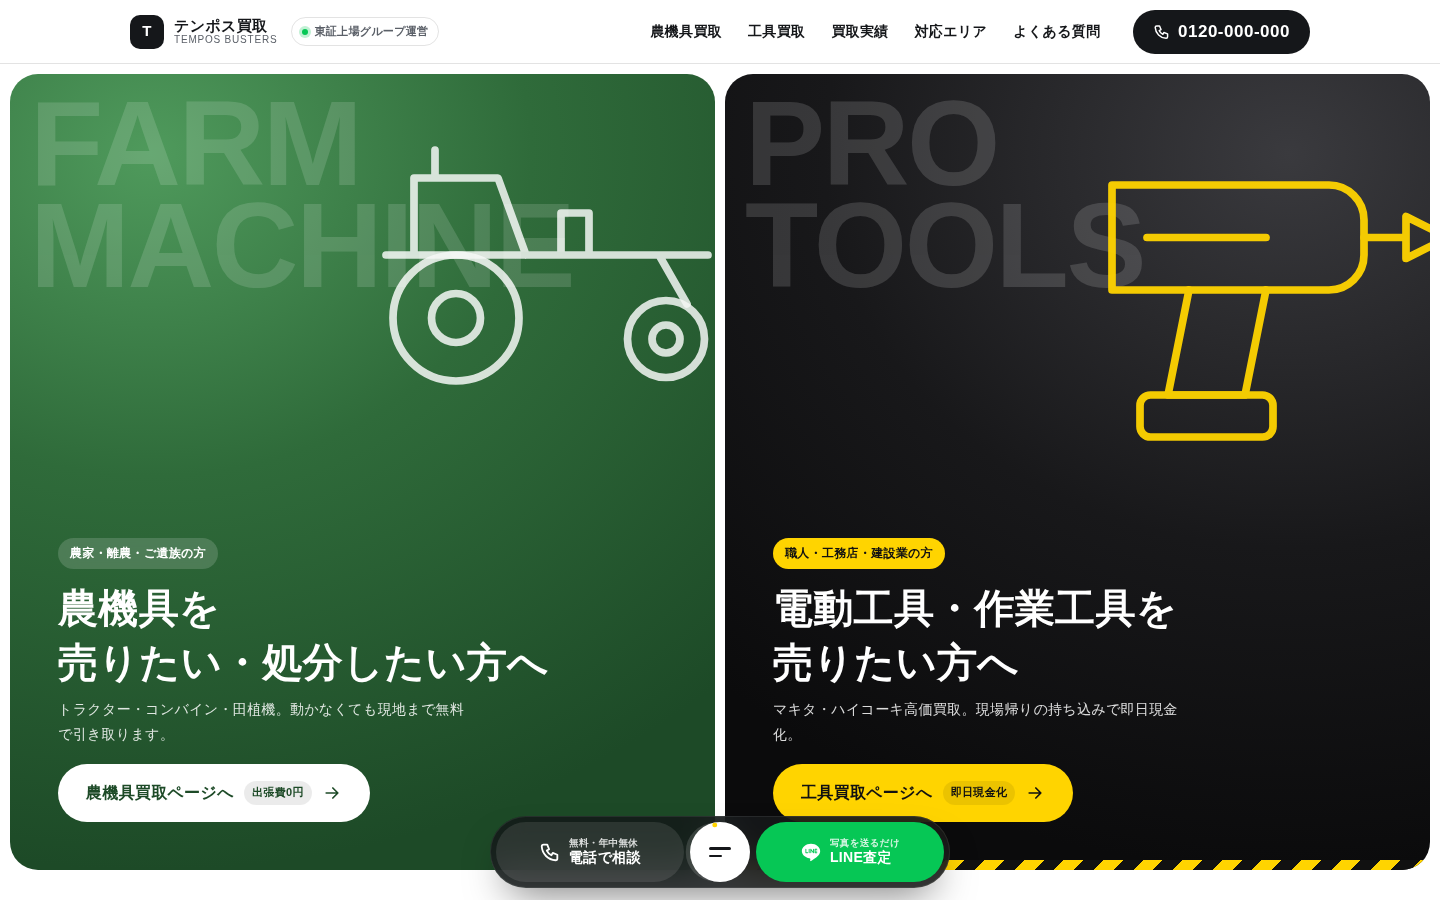
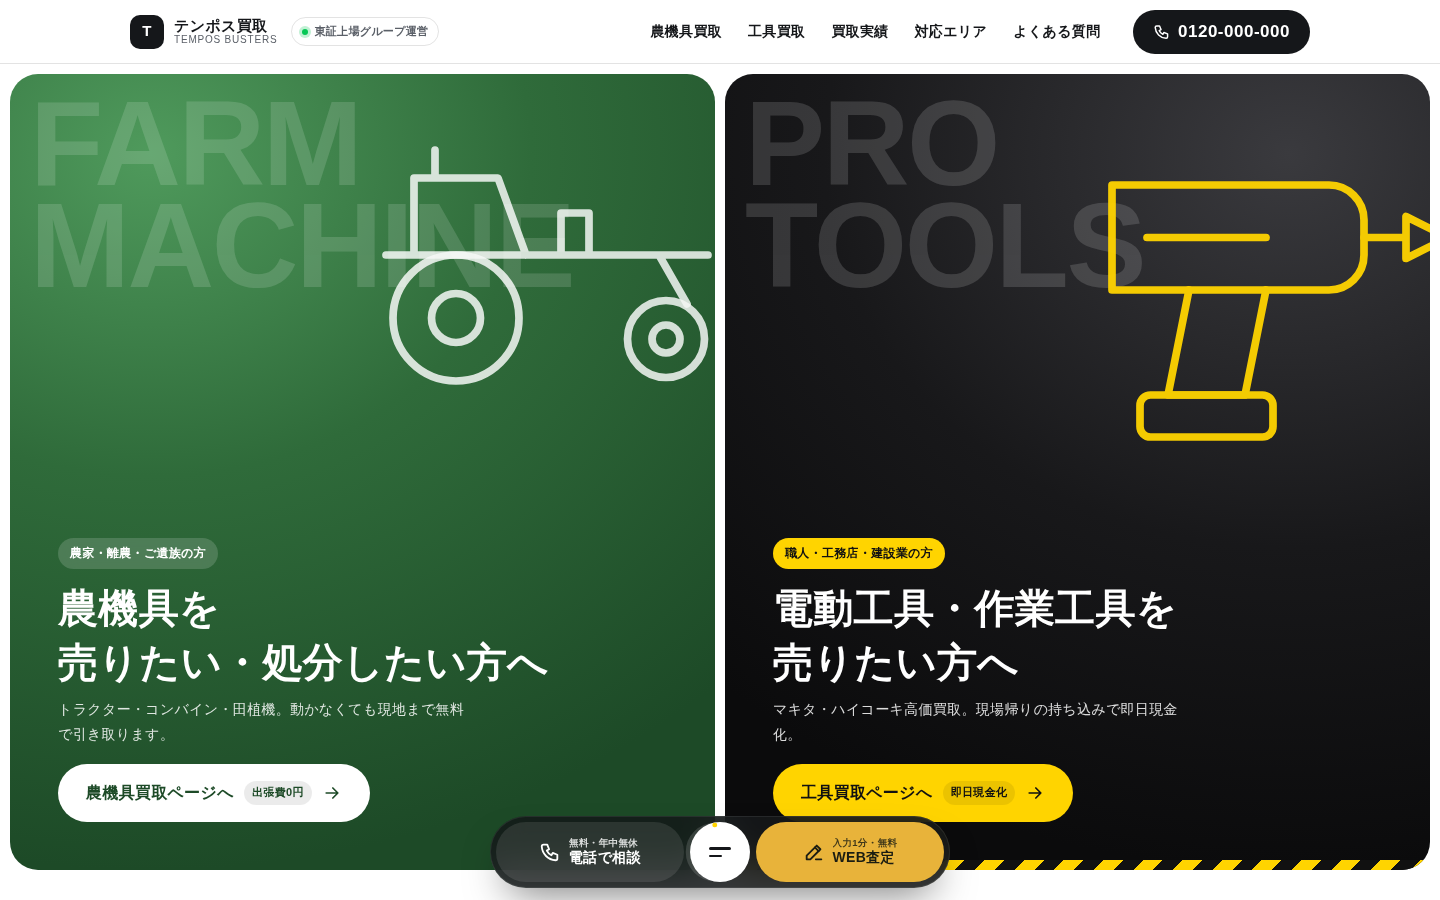
Switch primary CTA from LINE to the web estimate form
Replace LINE buttons in heroes and the floating dock with form CTAs,
swap the LINE card for a reassurance/phone card, add an optional photo
upload to the forms, and fix the required badge layout.

Claude-Session: https://claude.ai/code/session_01486cWnVe1SPJXuXY7nANnW

Changed region(s): [[0.5, 0.9022, 0.6562, 0.9956]]

diff --git a/mock/assets/css/style.css b/mock/assets/css/style.css
@@ -23,6 +23,8 @@
   --tool: #ffd400;
   --tool-red: #e60012;
   --line-green: #06c755;
+  --cta: #e8b33a;
+  --cta-ink: #1b1d12;
 
   --radius-s: 10px;
   --radius: 18px;
@@ -50,6 +52,8 @@
   --primary-ink: #ffffff;
   --accent: #8a5a2b;
   --sheet-bg: #1d4a27;
+  --cta: #e8b33a;
+  --cta-ink: #1d2a1d;
   --dock-bg: rgba(29, 74, 39, .9);
 }
 
@@ -65,6 +69,8 @@
   --accent: #e60012;
   --font-display: "Anton", var(--font-en);
   --sheet-bg: #ffd400;
+  --cta: #e60012;
+  --cta-ink: #ffffff;
   --sheet-ink: #0e0e0f;
   --dock-bg: rgba(14, 14, 15, .88);
 }
@@ -209,7 +215,7 @@ ul, ol { margin: 0; padding: 0; list-style: none; }
 .btn:hover::before { transform: translateX(0); }
 .btn:active { transform: scale(.97); }
 .btn--primary { background: var(--primary); color: var(--primary-ink); }
-.btn--line { background: var(--line-green); color: #fff; }
+.btn--cta { background: var(--cta); color: var(--cta-ink); }
 .btn--ghost { border: 2px solid currentColor; }
 .btn .arrow { transition: transform .35s var(--ease); }
 .btn:hover .arrow { transform: translateX(4px); }
@@ -291,8 +297,9 @@ ul, ol { margin: 0; padding: 0; list-style: none; }
 .form-card .lead { font-size: 13px; color: var(--ink-soft); margin-top: 4px; }
 .form-grid { display: grid; gap: 14px; margin-top: 22px; }
 @media (min-width: 640px) { .form-grid { grid-template-columns: 1fr 1fr; } .form-grid .full { grid-column: 1 / -1; } }
-.field { display: grid; gap: 6px; font-size: 13px; font-weight: 700; }
-.field .req { margin-left: 6px; font-size: 10px; padding: 1px 6px; border-radius: 4px; background: var(--accent); color: #fff; }
+.field { display: flex; flex-wrap: wrap; align-items: center; gap: 6px; font-size: 13px; font-weight: 700; }
+.field > input, .field > select, .field > .hint, .field > .seg { flex-basis: 100%; }
+.field .req { margin-left: 2px; font-size: 10px; padding: 1px 6px; border-radius: 4px; background: var(--accent); color: #fff; }
 .theme-tool .field .req { background: var(--tool-red); }
 .field input, .field select {
   width: 100%; height: 54px; padding: 0 16px; border-radius: 12px; font: inherit; font-size: 16px; font-weight: 500;
@@ -310,16 +317,27 @@ ul, ol { margin: 0; padding: 0; list-style: none; }
 .form-done { display: none; text-align: center; padding: 40px 10px; }
 .form-card.is-done form { display: none; }
 .form-card.is-done .form-done { display: block; }
-.line-card {
-  border-radius: var(--radius-l); padding: clamp(24px, 4vw, 40px); background: var(--line-green); color: #fff;
-  display: flex; flex-direction: column; gap: 14px; position: relative; overflow: hidden;
+.side-card {
+  border-radius: var(--radius-l); padding: clamp(24px, 4vw, 40px); background: var(--surface); color: var(--ink);
+  display: flex; flex-direction: column; gap: 16px; position: relative; overflow: hidden;
 }
-.line-card h3 { font-size: 24px; font-weight: 900; line-height: 1.4; }
-.line-card ol { display: grid; gap: 8px; counter-reset: s; font-weight: 700; font-size: 14px; }
-.line-card li { counter-increment: s; display: flex; gap: 10px; align-items: center; }
-.line-card li::before { content: counter(s); width: 26px; height: 26px; border-radius: 50%; display: grid; place-items: center; background: #fff; color: var(--line-green); font-family: var(--font-en); font-weight: 800; font-size: 13px; flex: none; }
-.line-card .btn { margin-top: auto; background: #fff; color: #06a648; }
-.line-card__bubble { position: absolute; right: -30px; top: -30px; width: 160px; height: 160px; border-radius: 50%; background: rgba(255, 255, 255, .12); }
+.side-card h3 { font-size: 22px; font-weight: 900; line-height: 1.45; position: relative; }
+.side-card ol { display: grid; gap: 10px; counter-reset: s; font-weight: 700; font-size: 14px; position: relative; }
+.side-card li { counter-increment: s; display: flex; gap: 10px; align-items: center; }
+.side-card li::before { content: counter(s); width: 26px; height: 26px; border-radius: 50%; display: grid; place-items: center; background: var(--primary); color: var(--primary-ink); font-family: var(--font-en); font-weight: 800; font-size: 13px; flex: none; }
+.side-card__tel { margin-top: auto; padding-top: 18px; border-top: 1px solid var(--line); font-size: 12px; font-weight: 700; color: var(--ink-soft); position: relative; }
+.side-card__tel a { display: flex; align-items: center; gap: 8px; margin-top: 4px; font-family: var(--font-en); font-size: 28px; font-weight: 800; color: var(--ink); letter-spacing: .02em; }
+.side-card__tel small { display: block; font-size: 11px; }
+.side-card__bubble { position: absolute; right: -40px; top: -40px; width: 180px; height: 180px; border-radius: 50%; background: color-mix(in srgb, var(--primary) 10%, transparent); }
+.cv-section--agri .side-card { background: rgba(255, 255, 255, .08); color: #fff; }
+.cv-section--agri .side-card li::before { background: #e8c46a; color: var(--agri-deep); }
+.cv-section--agri .side-card__tel { color: rgba(255, 255, 255, .7); border-color: rgba(255, 255, 255, .15); }
+.cv-section--agri .side-card__tel a { color: #fff; }
+.cv-section--tool .side-card { background: #0e0e0f; color: #f4f4f2; }
+.cv-section--tool .side-card li::before { background: var(--tool); color: #0e0e0f; }
+.cv-section--tool .side-card__tel a { color: var(--tool); }
+.field input[type="file"] { height: auto; padding: 12px; font-size: 13px; border-style: dashed; }
+.field .hint { font-size: 11px; font-weight: 500; color: var(--ink-soft); }
 
 /* フッター */
 .site-footer { background: #111312; color: #d9dbd6; padding: 64px 0 40px; font-size: 13px; }
@@ -388,8 +406,7 @@ ul, ol { margin: 0; padding: 0; list-style: none; }
 .dock__btn .icon { width: 22px; height: 22px; }
 .dock__btn--tel { background: rgba(255, 255, 255, .1); }
 .dock__btn--tel:hover { background: rgba(255, 255, 255, .18); }
-.dock__btn--line { background: var(--line-green); }
-.dock__btn--line .icon { fill: #fff; stroke: none; }
+.dock__btn--form { background: var(--cta); color: var(--cta-ink); }
 
 .dock__orb {
   position: relative; width: 60px; height: 60px; border-radius: 50%;
@@ -648,7 +665,7 @@ ul, ol { margin: 0; padding: 0; list-style: none; }
 .tool-hero__ctas { display: grid; gap: 10px; margin-top: 26px; }
 @media (min-width: 560px) { .tool-hero__ctas { grid-template-columns: 1fr 1fr; max-width: 560px; } }
 .tool-hero .btn--primary { border-radius: 10px; }
-.tool-hero .btn--line { border-radius: 10px; }
+.tool-hero .btn--cta { border-radius: 10px; }
 .tool-hero__visual { position: relative; }
 .tool-hero__visual .ph { aspect-ratio: 1; border-radius: 4px; --ph-bg: linear-gradient(135deg, #2b2b2f, #121214); clip-path: polygon(0 0, 100% 0, 100% 86%, 86% 100%, 0 100%); }
 .tool-hero__visual .ph svg { stroke: var(--tool); }

diff --git a/mock/agricultural-equipment/index.html b/mock/agricultural-equipment/index.html
@@ -71,10 +71,10 @@
           <span class="trust-badge"><span>東証上場<br>グループ<br>運営</span></span>
         </div>
         <div class="agri-hero__ctas">
-          <a class="btn btn--line" href="#form"><svg class="icon" style="fill:#fff;stroke:none"><use href="#i-line"/></svg>LINEで写真査定</a>
+          <a class="btn btn--cta" href="#form"><svg class="icon"><use href="#i-edit"/></svg>無料査定フォームへ</a>
           <a class="btn btn--primary" href="tel:0120000000"><svg class="icon"><use href="#i-phone"/></svg>電話で相談</a>
         </div>
-        <p class="micro"><span>写真を送るだけ・1分で完了</span><span>強引な営業は一切ありません</span></p>
+        <p class="micro"><span>入力は1分で完了</span><span>強引な営業は一切ありません</span></p>
       </div>
       <div class="agri-hero__visual">
         <div class="ph reveal-clip" data-label="PHOTO：田んぼとトラクター（AVIF）">
@@ -167,7 +167,7 @@
         <p class="answer">お問い合わせから現金お支払いまで最短3ステップ。大型搬出や名義変更もテンポスが代行するので、立ち会うだけで完了します。</p>
       </div>
       <div class="stack">
-        <article class="stack__card" style="--i:0"><p class="stack__no"><small>STEP</small>01</p><div><h3>お問い合わせ</h3><p>電話またはLINEで写真を送るだけ。型式がわからなくても大丈夫です。</p><div class="tags"><span>LINE写真査定</span><span>電話相談</span><span>年中無休</span></div></div><div class="ph" data-label="PHOTO：スマホで撮影"><svg viewBox="0 0 24 24" fill="none" stroke="#fff" stroke-width="1.5"><use href="#i-phone"/></svg></div></article>
+        <article class="stack__card" style="--i:0"><p class="stack__no"><small>STEP</small>01</p><div><h3>お問い合わせ</h3><p>査定フォームに入力するだけ（1分）。型式がわからなくても大丈夫です。</p><div class="tags"><span>WEB査定フォーム</span><span>電話相談</span><span>年中無休</span></div></div><div class="ph" data-label="PHOTO：フォーム入力"><svg viewBox="0 0 24 24" fill="none" stroke="#fff" stroke-width="1.5"><use href="#i-edit"/></svg></div></article>
         <article class="stack__card" style="--i:1"><p class="stack__no"><small>STEP</small>02</p><div><h3>現地確認・査定</h3><p>専門スタッフがご自宅・納屋まで訪問。その場で金額をご提示します。</p><div class="tags"><span>出張費0円</span><span>査定料0円</span><span>キャンセル無料</span></div></div><div class="ph" data-label="PHOTO：査定スタッフ"><svg viewBox="0 0 24 24" fill="none" stroke="#fff" stroke-width="1.5"><use href="#i-doc"/></svg></div></article>
         <article class="stack__card" style="--i:2"><p class="stack__no"><small>STEP</small>03</p><div><h3>その場で現金お支払い＆引き取り</h3><p>大型の搬出・名義変更手続きもテンポスがすべて代行します。</p><div class="tags"><span>即日現金</span><span>搬出代行</span><span>名義変更代行</span></div></div><div class="ph" data-label="PHOTO：積み込み"><svg viewBox="0 0 24 24" fill="none" stroke="#fff" stroke-width="1.5"><use href="#i-truck"/></svg></div></article>
       </div>
@@ -190,7 +190,7 @@
     </div>
   </section>
 
-  <!-- [8] フォーム＆LINE -->
+  <!-- [8] 査定フォーム -->
   <section class="section cv-section--agri" id="form" data-nav="無料査定">
     <div class="container">
       <div class="sec-head reveal">
@@ -208,6 +208,7 @@
               <label class="field full">都道府県<span class="req">必須</span>
                 <select required><option value="">選択してください</option><option>北海道</option><option>青森県</option><option>岩手県</option><option>宮城県</option><option>秋田県</option><option>山形県</option><option>福島県</option><option>茨城県</option><option>栃木県</option><option>群馬県</option><option>新潟県</option><option>その他</option></select>
               </label>
+              <label class="field full">写真（任意・3枚まで）<input type="file" accept="image/*" multiple><span class="hint">サビや故障箇所がわかる写真があると査定がスムーズです</span></label>
               <fieldset class="field full" style="border:0;padding:0;margin:0"><legend style="margin-bottom:6px">機器の種類</legend>
                 <div class="seg">
                   <label><input type="radio" name="kind" checked><span>トラクター</span></label>
@@ -223,11 +224,11 @@
           </form>
           <div class="form-done" role="status"><h3>送信しました（モック）</h3><p class="lead">担当者より折り返しご連絡いたします。</p></div>
         </div>
-        <div class="line-card reveal" style="--d:.1s">
-          <span class="line-card__bubble"></span>
-          <h3>写真を送るだけ。<br>LINEでかんたん査定</h3>
-          <ol><li>友だち追加</li><li>農機具の写真を2〜3枚送信</li><li>おおよその査定額をお知らせ</li></ol>
-          <a class="btn" href="#"><svg class="icon" style="fill:currentColor;stroke:none"><use href="#i-line"/></svg>LINEで友だち追加</a>
+        <div class="side-card reveal" style="--d:.1s">
+          <span class="side-card__bubble"></span>
+          <h3>安心してご依頼いただける<br>3つの約束</h3>
+          <ol><li>査定料・出張費・キャンセル料0円</li><li>金額にご納得いただけなければ断ってOK</li><li>強引な営業・しつこい電話は一切なし</li></ol>
+          <p class="side-card__tel">お急ぎの方はお電話でも<a href="tel:0120000000"><svg class="icon"><use href="#i-phone"/></svg>0120-000-000</a><small>受付 8:00〜20:00／年中無休</small></p>
         </div>
       </div>
     </div>
@@ -257,7 +258,7 @@
       <svg class="dock__ring" viewBox="0 0 40 40" aria-hidden="true"><circle class="dock__ring-track" cx="20" cy="20" r="18" pathLength="100"/><circle class="dock__ring-bar" cx="20" cy="20" r="18" pathLength="100"/></svg>
       <span class="dock__orb-icon" aria-hidden="true"><i></i><i></i></span>
     </button>
-    <a class="dock__btn dock__btn--line" href="#form"><svg class="icon"><use href="#i-line"/></svg><span><small>写真を送るだけ</small>LINE査定</span></a>
+    <a class="dock__btn dock__btn--form" href="#form"><svg class="icon"><use href="#i-edit"/></svg><span><small>入力1分・無料</small>WEB査定</span></a>
   </div>
 </div>
 

diff --git a/mock/tool/index.html b/mock/tool/index.html
@@ -64,10 +64,10 @@
         <p class="tool-hero__sub reveal" style="--d:.15s">動く道具はもちろん、型落ち・予備工具・ケースなしも歓迎。プロの道具を正当評価します。</p>
         <div class="tool-badges reveal" style="--d:.2s"><span>型番明確査定</span><span>現場帰り・持ち込み歓迎</span><span>即日現金化</span></div>
         <div class="tool-hero__ctas reveal" style="--d:.25s">
-          <a class="btn btn--line" href="#form"><svg class="icon" style="fill:#fff;stroke:none"><use href="#i-line"/></svg>LINEで型番査定</a>
+          <a class="btn btn--cta" href="#form"><svg class="icon"><use href="#i-edit"/></svg>型番で無料査定</a>
           <a class="btn btn--primary" href="tel:0120000000"><svg class="icon"><use href="#i-phone"/></svg>電話で相談</a>
         </div>
-        <p class="micro"><span>型番を送るだけ・1分で完了</span><span>査定料・キャンセル料0円</span></p>
+        <p class="micro"><span>型番を入れるだけ・1分で完了</span><span>査定料・キャンセル料0円</span></p>
       </div>
       <div class="tool-hero__visual">
         <div class="ph reveal-clip" data-label="PHOTO：インパクトドライバ／現場（AVIF）">
@@ -173,13 +173,13 @@
       <div class="faq">
         <details><summary><span class="q">Q</span>ケースがない本体のみでも買取りできますか？<span class="pm" aria-hidden="true"></span></summary><p class="a">できます。箱・ケースなし、本体のみ、バッテリー劣化品も買取対象です。付属品がそろっている場合は査定額がアップします。</p></details>
         <details><summary><span class="q">Q</span>現場の不用工具をまとめて査定できますか？<span class="pm" aria-hidden="true"></span></summary><p class="a">できます。出張買取で現場や倉庫の工具を一括査定します。数十点〜数百点の大口も対応可能です。</p></details>
-        <details><summary><span class="q">Q</span>型番がわからなくても査定できますか？<span class="pm" aria-hidden="true"></span></summary><p class="a">本体の銘板（型番シール）の写真をLINEで送っていただければ、こちらで特定します。</p></details>
+        <details><summary><span class="q">Q</span>型番がわからなくても査定できますか？<span class="pm" aria-hidden="true"></span></summary><p class="a">査定フォームから本体の銘板（型番シール）の写真を添付していただければ、こちらで特定します。</p></details>
         <details><summary><span class="q">Q</span>インボイスや領収書は発行できますか？<span class="pm" aria-hidden="true"></span></summary><p class="a">法人・個人事業主のお客様には買取明細書を発行します。詳しくはお問い合わせください。</p></details>
       </div>
     </div>
   </section>
 
-  <!-- [8] フォーム＆LINE -->
+  <!-- [8] 査定フォーム -->
   <section class="section cv-section--tool" id="form" data-nav="無料査定">
     <div class="container">
       <div class="sec-head reveal">
@@ -198,6 +198,7 @@
                 <select required><option value="">選択してください</option><option>東京都</option><option>神奈川県</option><option>埼玉県</option><option>千葉県</option><option>大阪府</option><option>愛知県</option><option>その他</option></select>
               </label>
               <label class="field">メーカー・型番（任意）<input type="text" placeholder="例）マキタ TD173D"></label>
+              <label class="field full">写真（任意・3枚まで）<input type="file" accept="image/*" multiple><span class="hint">型番がわからない場合は銘板（型番シール）の写真を添付してください</span></label>
               <fieldset class="field full" style="border:0;padding:0;margin:0"><legend style="margin-bottom:6px">工具の種類</legend>
                 <div class="seg">
                   <label><input type="radio" name="kind" checked><span>電動工具</span></label>
@@ -213,11 +214,11 @@
           </form>
           <div class="form-done" role="status"><h3>送信しました（モック）</h3><p class="lead">担当者より折り返しご連絡いたします。</p></div>
         </div>
-        <div class="line-card reveal" style="--d:.1s">
-          <span class="line-card__bubble"></span>
-          <h3>銘板を撮って送るだけ。<br>LINEでかんたん型番査定</h3>
-          <ol><li>友だち追加</li><li>本体と銘板（型番シール）を撮影</li><li>最短30分で査定額をお知らせ</li></ol>
-          <a class="btn" href="#"><svg class="icon" style="fill:currentColor;stroke:none"><use href="#i-line"/></svg>LINEで友だち追加</a>
+        <div class="side-card reveal" style="--d:.1s">
+          <span class="side-card__bubble"></span>
+          <h3>安心してご依頼いただける<br>3つの約束</h3>
+          <ol><li>査定料・出張費・キャンセル料0円</li><li>金額にご納得いただけなければ断ってOK</li><li>強引な営業・しつこい電話は一切なし</li></ol>
+          <p class="side-card__tel">お急ぎの方はお電話でも<a href="tel:0120000000"><svg class="icon"><use href="#i-phone"/></svg>0120-000-000</a><small>受付 7:00〜21:00／現場帰りもOK</small></p>
         </div>
       </div>
     </div>
@@ -247,7 +248,7 @@
       <svg class="dock__ring" viewBox="0 0 40 40" aria-hidden="true"><circle class="dock__ring-track" cx="20" cy="20" r="18" pathLength="100"/><circle class="dock__ring-bar" cx="20" cy="20" r="18" pathLength="100"/></svg>
       <span class="dock__orb-icon" aria-hidden="true"><i></i><i></i></span>
     </button>
-    <a class="dock__btn dock__btn--line" href="#form"><svg class="icon"><use href="#i-line"/></svg><span><small>型番を送るだけ</small>LINE査定</span></a>
+    <a class="dock__btn dock__btn--form" href="#form"><svg class="icon"><use href="#i-edit"/></svg><span><small>型番を入れるだけ</small>WEB査定</span></a>
   </div>
 </div>
 

diff --git a/mock/assets/js/main.js b/mock/assets/js/main.js
@@ -12,7 +12,7 @@
   const sprite = `
   <svg xmlns="http://www.w3.org/2000/svg" style="display:none">
     <symbol id="i-phone" viewBox="0 0 24 24"><path d="M5 4h4l2 5-2.5 1.5a11 11 0 0 0 5 5L15 13l5 2v4a2 2 0 0 1-2 2A16 16 0 0 1 3 6a2 2 0 0 1 2-2"/></symbol>
-    <symbol id="i-line" viewBox="0 0 24 24"><path d="M12 3C6.5 3 2 6.6 2 11c0 3.9 3.5 7.2 8.3 7.9.3.1.8.2.9.5.1.3.1.7 0 1l-.1.9c0 .3-.2 1 .9.5 1.1-.5 5.9-3.5 8-5.9C21.4 14.3 22 12.7 22 11c0-4.4-4.5-8-10-8Zm-3.6 10.4H6.4c-.3 0-.5-.2-.5-.5V9c0-.3.2-.5.5-.5s.5.2.5.5v3.4h1.5c.3 0 .5.2.5.5s-.2.5-.5.5Zm2.1-.5c0 .3-.2.5-.5.5s-.5-.2-.5-.5V9c0-.3.2-.5.5-.5s.5.2.5.5v3.9Zm4.7 0c0 .2-.1.4-.3.5h-.2c-.2 0-.3-.1-.4-.2l-2-2.7v2.4c0 .3-.2.5-.5.5s-.5-.2-.5-.5V9c0-.2.1-.4.3-.5h.2c.2 0 .3.1.4.2l2 2.7V9c0-.3.2-.5.5-.5s.5.2.5.5v3.9Zm3.2-2.5c.3 0 .5.2.5.5s-.2.5-.5.5h-1.5v1h1.5c.3 0 .5.2.5.5s-.2.5-.5.5h-2c-.3 0-.5-.2-.5-.5V9c0-.3.2-.5.5-.5h2c.3 0 .5.2.5.5s-.2.5-.5.5h-1.5v1h1.5Z"/></symbol>
+    <symbol id="i-edit" viewBox="0 0 24 24"><path d="M4 20h4L19 9l-4-4L4 16z"/><path d="m13 7 4 4M14 20h6"/></symbol>
     <symbol id="i-arrow" viewBox="0 0 24 24"><path d="M5 12h14M13 6l6 6-6 6"/></symbol>
     <symbol id="i-check" viewBox="0 0 24 24"><path d="m5 12 5 5 9-10"/></symbol>
     <symbol id="i-truck" viewBox="0 0 24 24"><path d="M3 6h11v9H3zM14 9h4l3 3v3h-7"/><circle cx="7" cy="17" r="2"/><circle cx="17" cy="17" r="2"/></symbol>

diff --git a/mock/index.html b/mock/index.html
@@ -34,7 +34,7 @@
 
 <main>
   <!-- スプリットナビゲーション -->
-  <section class="split" aria-label="買取ジャンルを選ぶ">
+  <section class="split" id="select" aria-label="買取ジャンルを選ぶ">
     <a class="split__panel split__panel--agri" href="agricultural-equipment/index.html">
       <span class="split__en" aria-hidden="true">FARM<br>MACHINE</span>
       <svg class="split__art" viewBox="0 0 120 80" fill="none" stroke="rgba(255,255,255,.85)" stroke-width="2.2" stroke-linecap="round" stroke-linejoin="round" aria-hidden="true">
@@ -165,7 +165,7 @@
       <svg class="dock__ring" viewBox="0 0 40 40" aria-hidden="true"><circle class="dock__ring-track" cx="20" cy="20" r="18" pathLength="100"/><circle class="dock__ring-bar" cx="20" cy="20" r="18" pathLength="100"/></svg>
       <span class="dock__orb-icon" aria-hidden="true"><i></i><i></i></span>
     </button>
-    <a class="dock__btn dock__btn--line" href="#"><svg class="icon"><use href="#i-line"/></svg><span><small>写真を送るだけ</small>LINE査定</span></a>
+    <a class="dock__btn dock__btn--form" href="#select"><svg class="icon"><use href="#i-edit"/></svg><span><small>入力1分・無料</small>WEB査定</span></a>
   </div>
 </div>
 

diff --git a/mock/README.md b/mock/README.md
@@ -17,13 +17,16 @@ cd mock && python3 -m http.server 8000
 ```
 
 ## Floating Dock（スマホのメニュー＋追従CV）
-- ヘッダーにハンバーガーを置かず、親指の届く画面下部のカプセルに「電話／メニュー／LINE」を集約
+- ヘッダーにハンバーガーを置かず、親指の届く画面下部のカプセルに「電話／メニュー／WEB査定（フォーム）」を集約
 - 中央オーブの外周リング＝ページ読了進捗
 - カプセル上のチップ＝今読んでいるセクション名（Dynamic Island 風に切替アニメ）
 - 下スクロールでカプセルがコンパクト化、上スクロールで復帰
 - オーブをタップ → オーブ中心から円形に広がる全画面 INDEX。各セクションに「読んだ／現在地」を表示し、もう一方の LP への切替カードも配置
 
+## CTA 方針
+主 CTA はすべて **WEB査定フォーム**（LINE は使用しない）。補助として電話。
+
 ## 実装済み要件
-アンカータブ（追従ピル）／アコーディオン FAQ（details）／3ステップ図解（スティッキー積み重ね）／実績カード＋稼働・不動フィルター／状態ランク表／買取方法タブ／簡易フォーム＋LINE誘導／マイクロコピー／FAQPage JSON-LD／Direct-Answer 要約
+アンカータブ（追従ピル）／アコーディオン FAQ（details）／3ステップ図解（スティッキー積み重ね）／実績カード＋稼働・不動フィルター／状態ランク表／買取方法タブ／簡易フォーム（写真添付つき）＋安心の約束・電話の補助カード／マイクロコピー／FAQPage JSON-LD／Direct-Answer 要約
 
 画像はすべてプレースホルダー（本番は WebP/AVIF ＋ `loading="lazy"`）。
